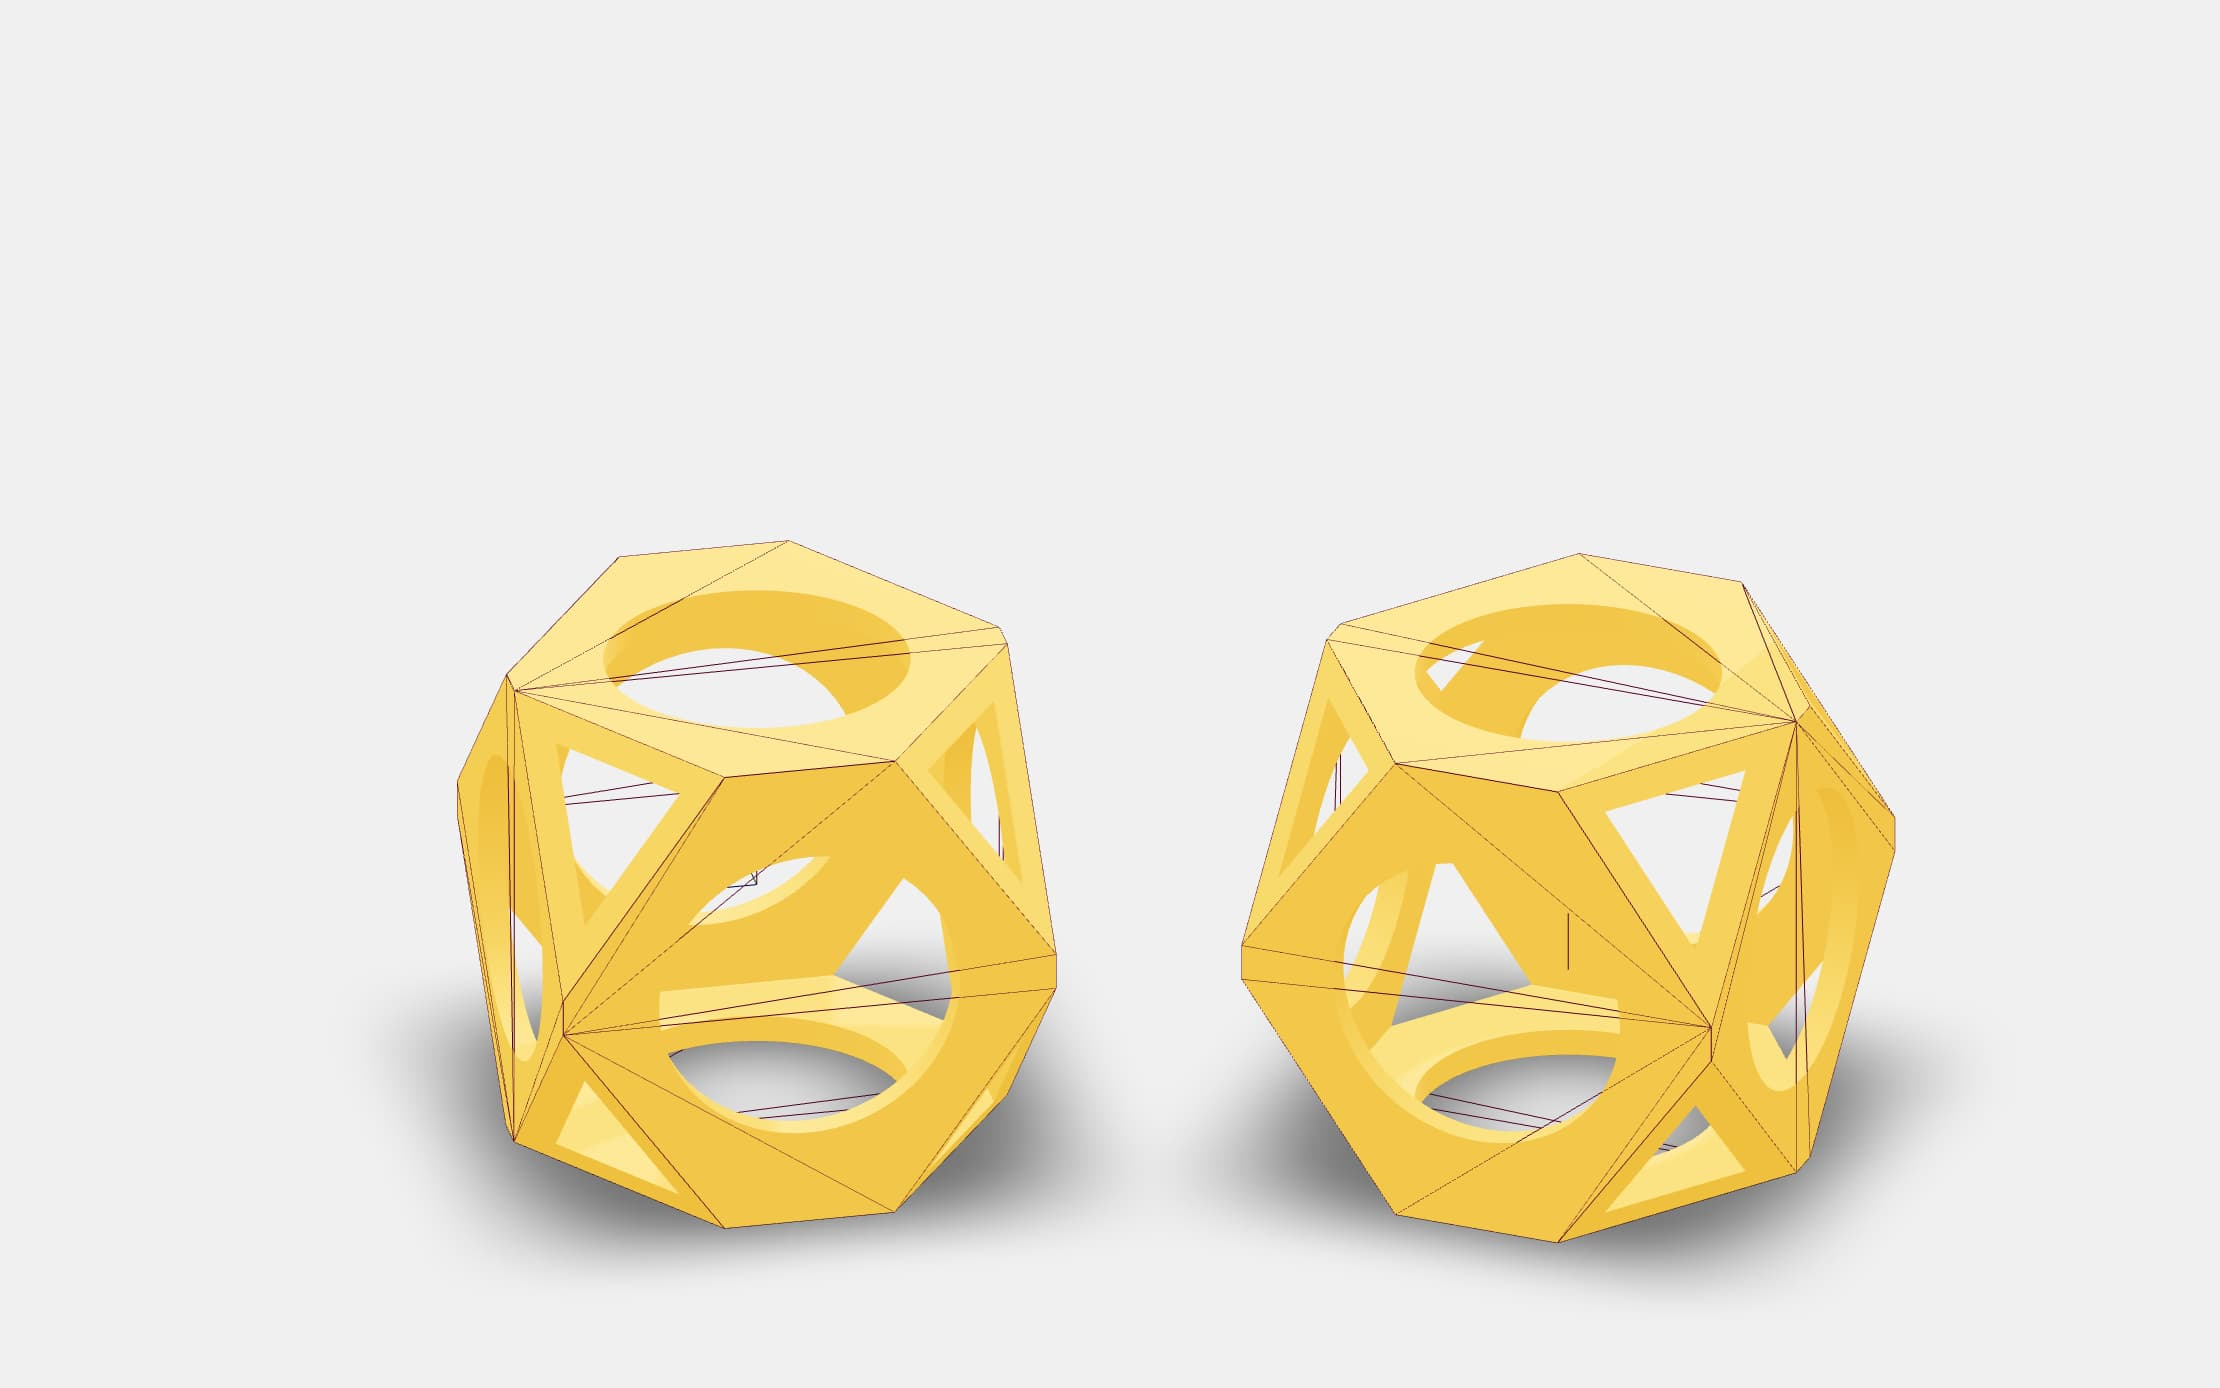
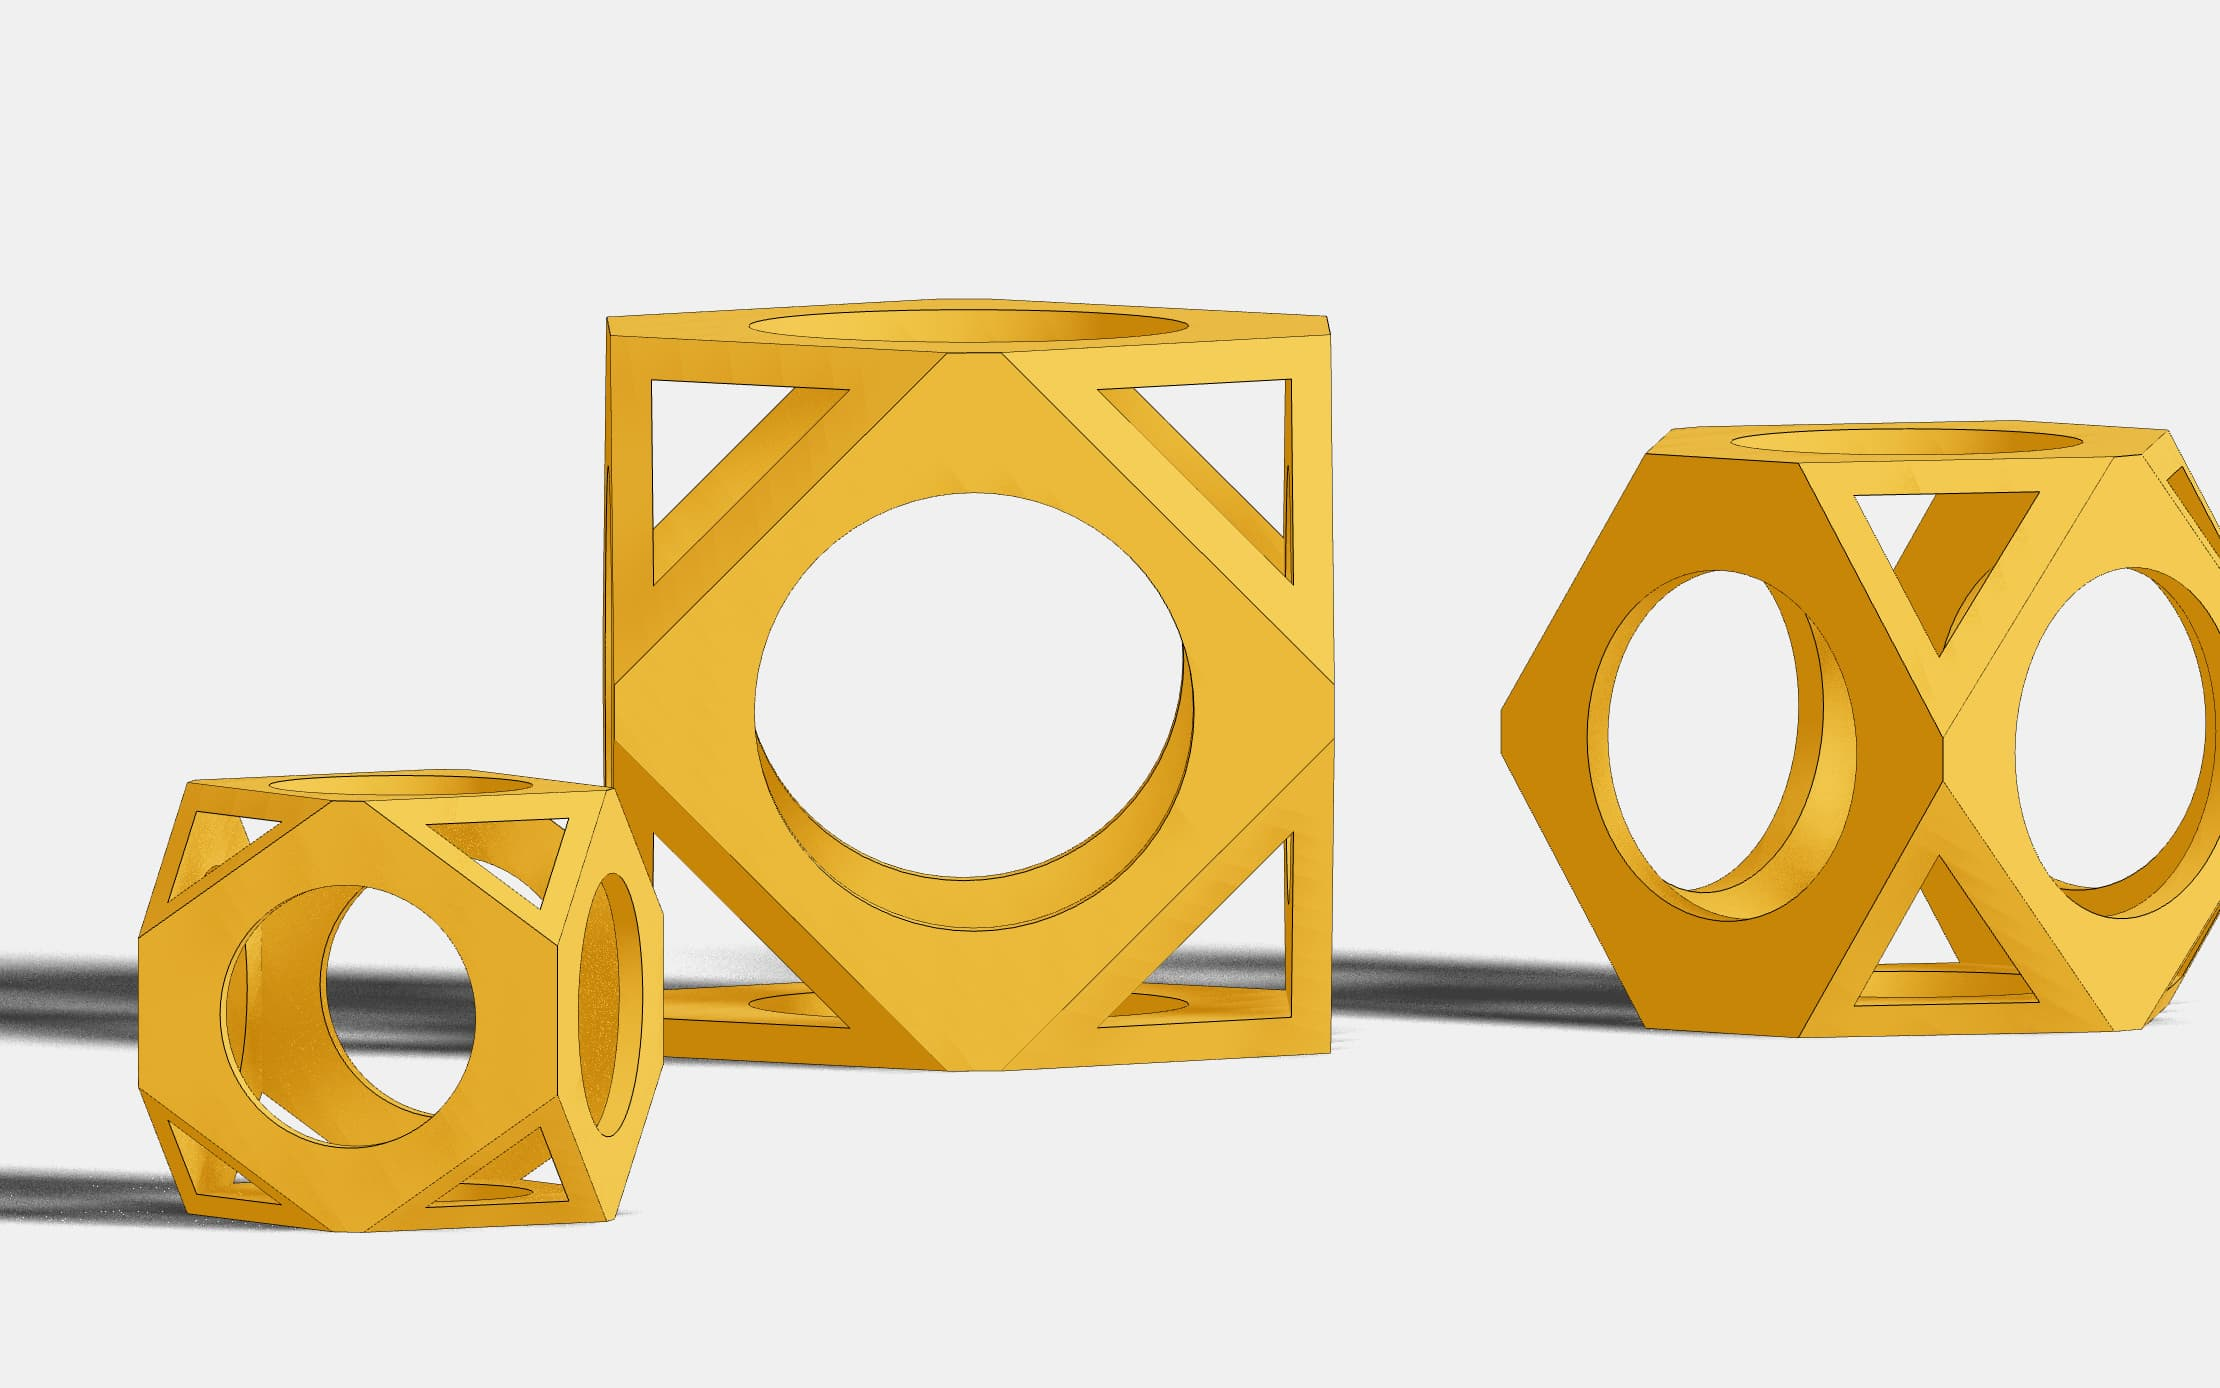
fix reuse

diff --git a/packages/with-solid-cache-reuse/src/App.jsx b/packages/with-solid-cache-reuse/src/App.jsx
@@ -2,7 +2,7 @@ import { Suspense, useState } from 'react'
 import { solid } from '@buerli.io/headless'
 import { headless } from '@buerli.io/react'
 import { Canvas } from '@react-three/fiber'
-import { OrbitControls, Environment, ContactShadows } from '@react-three/drei'
+import { OrbitControls, SoftShadows, Edges } from '@react-three/drei'
 import { Physics, RigidBody, CuboidCollider } from '@react-three/rapier'
 import { Leva } from 'leva'
 import { Status, Out } from './Pending'
@@ -12,24 +12,32 @@ const { cache } = headless(solid, 'ws://localhost:9091')
 export default function App() {
   return (
     <>
-      <Canvas shadows orthographic camera={{ position: [0, 5, 10], zoom: 80 }}>
+      <Canvas shadows orthographic camera={{ position: [0, 0, 100], zoom: 80 }}>
         <color attach="background" args={['#f0f0f0']} />
-        <ambientLight />
-        <spotLight position={[10, 15, -15]} angle={0.2} castShadow />
-        <Physics debug>
+        <ambientLight intensity={0.5} />
+        <directionalLight position={[20, 15, 15]} castShadow>
+          <orthographicCamera attach="shadow-camera" args={[-50, 50, 50, -50, 1, 1000]} />
+        </directionalLight>
+        <Physics>
           <Suspense fallback={<Status>Loading</Status>}>
             <RigidBody position={[0, 10, 0]} rotation={[4, 5, 6]} colliders="hull">
-              <Model scale={0.035} />
+              <Model scale={0.03} />
             </RigidBody>
-            <RigidBody position={[2, 20, 0]} rotation={[1, 2, 3]} colliders="hull">
-              <Model scale={0.035} />
+            <RigidBody position={[1, 20, 0]} rotation={[1, 2, 3]} colliders="hull">
+              <Model scale={0.04} />
+            </RigidBody>
+            <RigidBody position={[-0.5, 40, -0.5]} rotation={[1, 2, 3]} colliders="hull">
+              <Model scale={0.05} />
             </RigidBody>
           </Suspense>
-          <ContactShadows position={[0, -2, 0]} scale={20} blur={2} />
+          <mesh receiveShadow rotation={[-Math.PI / 2, 0, 0]} position={[0, -2, 0]}>
+            <planeGeometry args={[100, 100]} />
+            <shadowMaterial transparent opacity={0.75} />
+          </mesh>
           <CuboidCollider position={[0, -3, 0]} type="fixed" args={[40, 1, 40]} />
         </Physics>
+        <SoftShadows size={10} samples={20} />
         <OrbitControls makeDefault minPolarAngle={0} maxPolarAngle={Math.PI / 2.1} />
-        <Environment preset="city" />
       </Canvas>
       <Leva neverHide titleBar={{ title: <Out /> }} />
     </>
@@ -67,6 +75,7 @@ function Model({ lOuterBox = 90, lInnerBox = 80, dHole = 55, ...props }) {
     <group {...props}>
       <mesh castShadow receiveShadow geometry={geo} onPointerOver={() => hover(true)} onPointerOut={() => hover(false)}>
         <meshStandardMaterial color={hovered ? 'hotpink' : 'orange'} />
+        <Edges />
       </mesh>
     </group>
   )

diff --git a/packages/with-solid-cache/src/App.jsx b/packages/with-solid-cache/src/App.jsx
@@ -15,7 +15,7 @@ const { cache } = headless(solid, 'ws://localhost:9091')
 export default function App() {
   return (
     <>
-      <Canvas shadows orthographic camera={{ position: [10, 5, 10], zoom: 100 }}>
+      <Canvas shadows orthographic camera={{ position: [10, 10, 0], zoom: 100 }}>
         <color attach="background" args={['#f0f0f0']} />
         <ambientLight />
         <spotLight position={[10, 5, -15]} angle={0.2} castShadow />
@@ -26,7 +26,7 @@ export default function App() {
               <Model scale={0.035} />
             </Center>
             <AccumulativeShadows temporal alphaTest={0.85} opacity={0.75} frames={100} scale={20}>
-              <RandomizedLight radius={6} position={[-15, 10, -20]} bias={0.0001} />
+              <RandomizedLight radius={6} position={[-15, 10, -10]} bias={0.0001} />
             </AccumulativeShadows>
           </group>
         </Suspense>
@@ -43,7 +43,7 @@ function Model(props) {
   // blocking the UI. https://react.dev/reference/react/startTransition
   const [pending, trans] = useTransition()
   const [width, setWidth] = useState(100)
-  const [cut1, setCut1] = useState(40)
+  const [cut1, setCut1] = useState(70)
   const [cut2, setCut2] = useState(40)
   const [offset, setOffset] = useState(1)
   const sticker = useTexture(awvLogoUrl)
